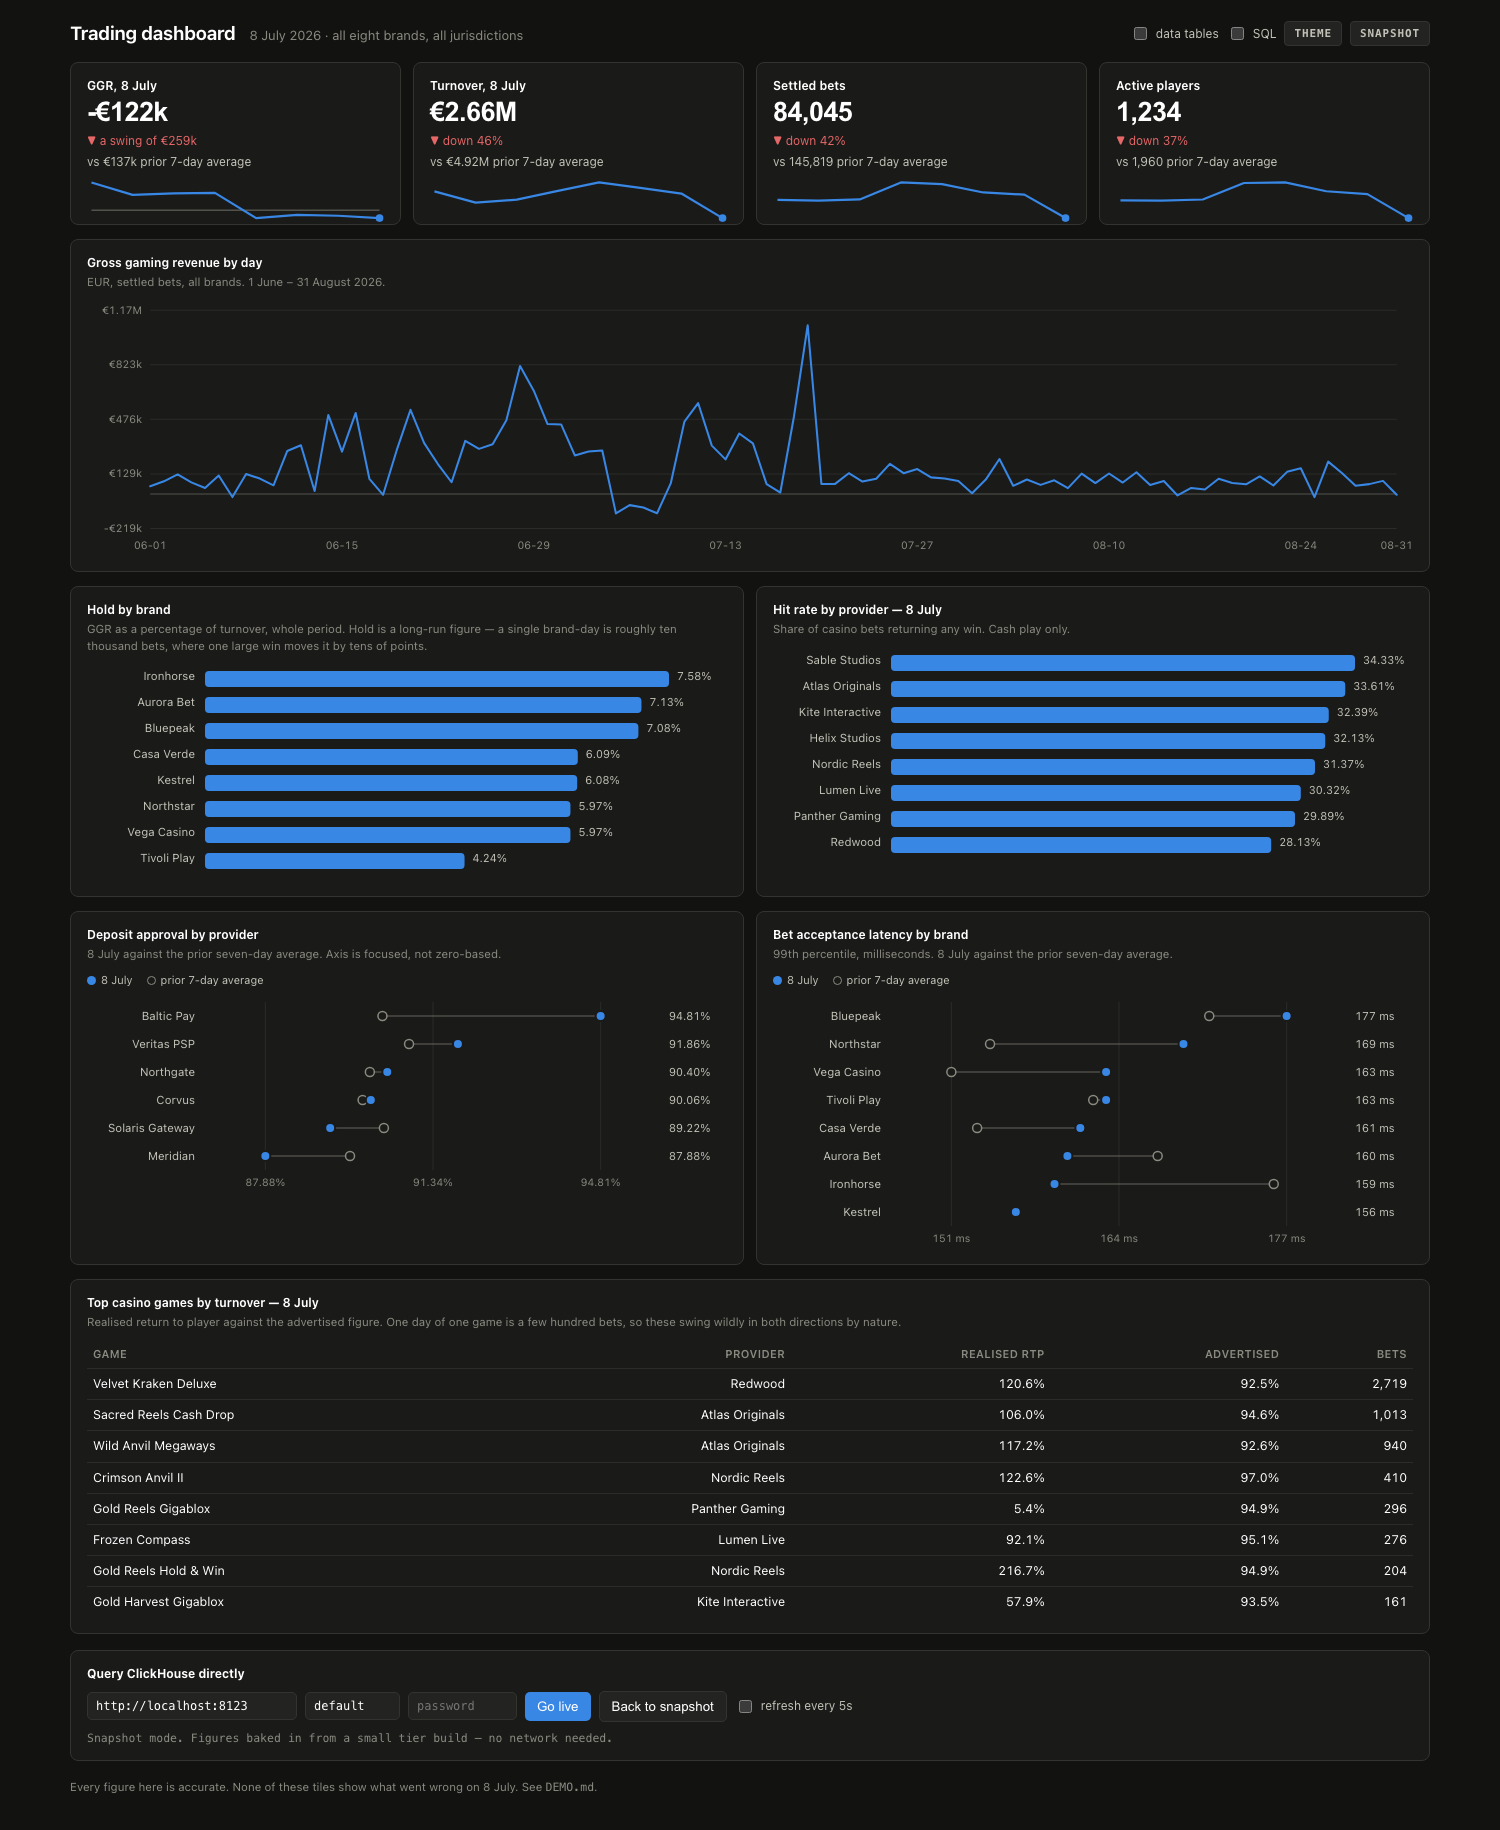
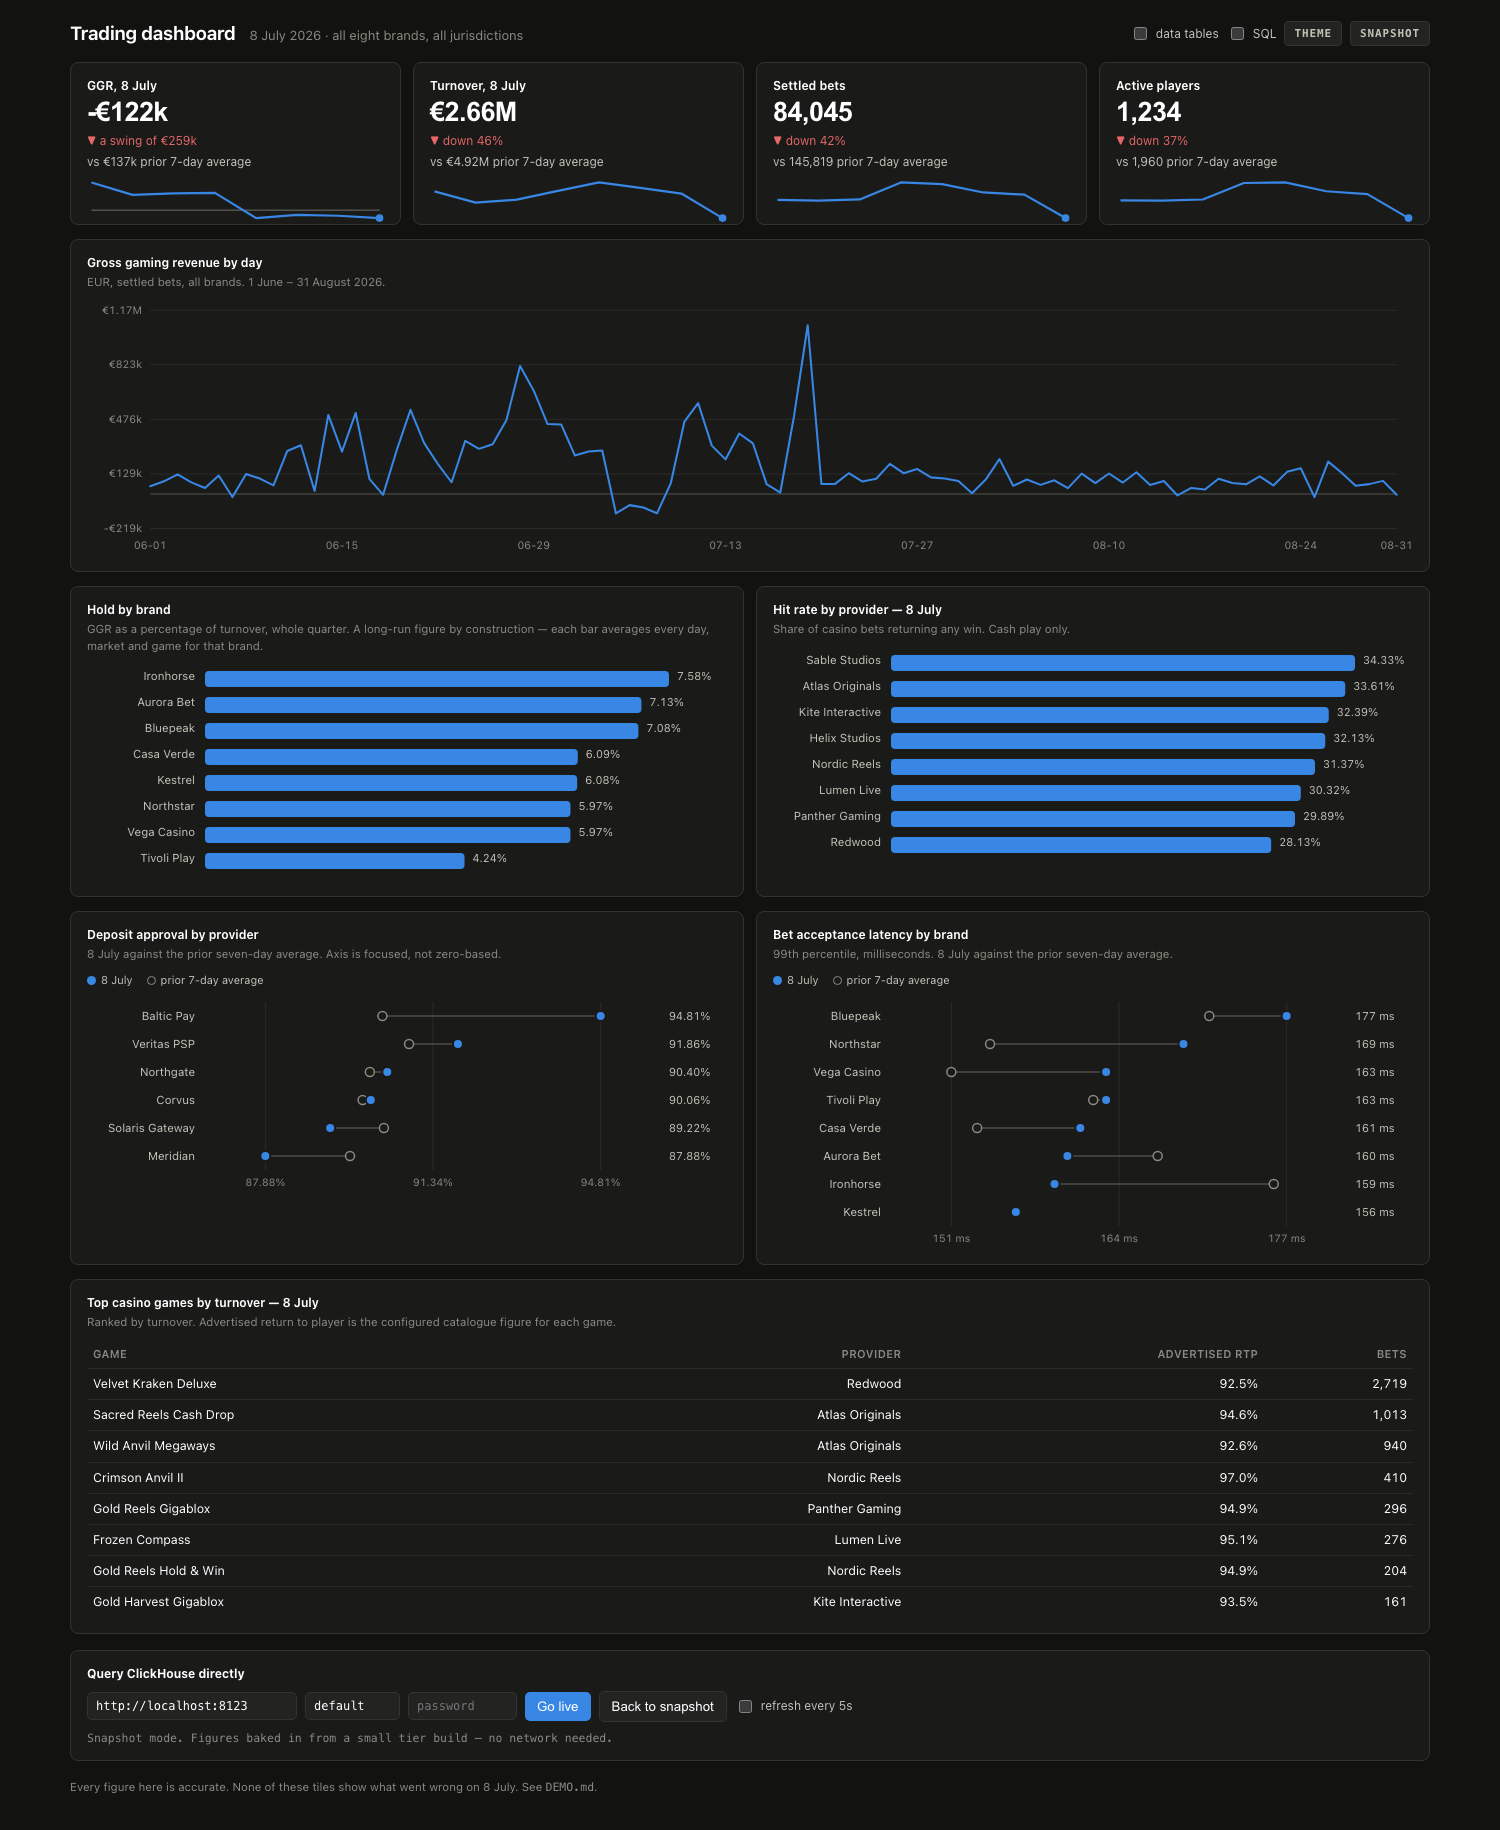
Fix four dashboard problems found by reviewing it at 10B
Reviewing the whole dashboard against the ten-billion-row build turned up
four things wrong. Three were only visible at that tier.

1. The top-games tile gave the answer away. It carried a realised RTP
   column beside the advertised figure. At the small tier that column
   ranged 5.4% to 216.7% and the culprit's 120.6% was unremarkable noise.
   At 10B the noise is gone: every non-Redwood row sits within about a
   point of advertised, and the only two rows above 100% are both
   Redwood. The tile is now GAME / PROVIDER / ADVERTISED RTP / BETS,
   still ranked by turnover. Retargeted rather than deleted, because five
   tiles with a hole reads as something removed.

   Same noise collapse that stopped beat 3 failing, and the same cause:
   about 75,500 cash bets per game-day against about 76.

2. Active players was arithmetically wrong in LIVE mode. The baseline was
   a seven-day distinct count divided by seven, which counts a returning
   player once and understates the daily average. The symptom was the KPI
   reading up 42% while turnover and bets were both down 46% -- on the
   one tile the eye goes to, because it disagreed with the other three.
   Now a scalar subquery averaging the daily counts.

   Fixed in the SQL rather than the JS because the tile has a SQL toggle,
   and hiding the fix would have left the wrong arithmetic on display.
   The snapshot figure was always right, which is why this survived to
   10B unnoticed.
[…]

diff --git a/dashboard/index.html b/dashboard/index.html
@@ -208,9 +208,9 @@
   <div class="grid halves">
     <div class="card">
       <h2>Hold by brand</h2>
-      <p class="note">GGR as a percentage of turnover, whole period. Hold is a
-        long-run figure &mdash; a single brand-day is roughly ten thousand bets, where
-        one large win moves it by tens of points.</p>
+      <p class="note">GGR as a percentage of turnover, whole quarter. A long-run
+        figure by construction &mdash; each bar averages every day, market and game
+        for that brand.</p>
       <div id="holdChart"></div>
       <div class="tableview scroll" id="holdTable"></div>
       <div class="sqlview" data-q="hold"></div>
@@ -244,8 +244,8 @@
   <div class="grid">
     <div class="card">
       <h2>Top casino games by turnover &mdash; 8 July</h2>
-      <p class="note">Realised return to player against the advertised figure. One day of
-        one game is a few hundred bets, so these swing wildly in both directions by nature.</p>
+      <p class="note">Ranked by turnover. Advertised return to player is the configured
+        catalogue figure for each game.</p>
       <div class="scroll"><table id="gamesTable"></table></div>
       <div class="sqlview" data-q="games"></div>
     </div>
@@ -319,14 +319,15 @@ const SNAP = {
   lat: [["Bluepeak",177,171],["Northstar",169,154],["Vega Casino",163,151],
         ["Tivoli Play",163,162],["Casa Verde",161,153],["Aurora Bet",160,167],
         ["Ironhorse",159,176],["Kestrel",156,156]],
-  games: [["Velvet Kraken Deluxe","Redwood",120.6,92.5,2719],
-          ["Sacred Reels Cash Drop","Atlas Originals",106.0,94.6,1013],
-          ["Wild Anvil Megaways","Atlas Originals",117.2,92.6,940],
-          ["Crimson Anvil II","Nordic Reels",122.6,97.0,410],
-          ["Gold Reels Gigablox","Panther Gaming",5.4,94.9,296],
-          ["Frozen Compass","Lumen Live",92.1,95.1,276],
-          ["Gold Reels Hold & Win","Nordic Reels",216.7,94.9,204],
-          ["Gold Harvest Gigablox","Kite Interactive",57.9,93.5,161]]
+  /* [game, provider, advertised RTP, bets] */
+  games: [["Velvet Kraken Deluxe","Redwood",92.5,2719],
+          ["Sacred Reels Cash Drop","Atlas Originals",94.6,1013],
+          ["Wild Anvil Megaways","Atlas Originals",92.6,940],
+          ["Crimson Anvil II","Nordic Reels",97.0,410],
+          ["Gold Reels Gigablox","Panther Gaming",94.9,296],
+          ["Frozen Compass","Lumen Live",95.1,276],
+          ["Gold Reels Hold & Win","Nordic Reels",94.9,204],
+          ["Gold Harvest Gigablox","Kite Interactive",93.5,161]]
 };
 
 /* ============================================================ */
@@ -571,11 +572,11 @@ function renderDumbbell(mount, rows, fmt, label, unit) {
 
 function renderGames(rows) {
   $("#gamesTable").innerHTML =
-    "<thead><tr><th>Game</th><th>Provider</th><th class='num'>Realised RTP</th>" +
-    "<th class='num'>Advertised</th><th class='num'>Bets</th></tr></thead><tbody>" +
+    "<thead><tr><th>Game</th><th>Provider</th>" +
+    "<th class='num'>Advertised RTP</th><th class='num'>Bets</th></tr></thead><tbody>" +
     rows.map((r) => "<tr><td>" + r[0] + "</td><td>" + r[1] + "</td>" +
-      '<td class="num">' + r[2].toFixed(1) + "%</td><td class=\"num\">" +
-      r[3].toFixed(1) + '%</td><td class="num">' + num(r[4]) + "</td></tr>").join("") +
+      '<td class="num">' + r[2].toFixed(1) + '%</td><td class="num">' +
+      num(r[3]) + "</td></tr>").join("") +
     "</tbody>";
 }
 
@@ -617,7 +618,13 @@ const Q = {
       round(sumIf(ggr_eur, toDate(ts)>=${W0} AND toDate(ts)<${D0})/7),
       round(sumIf(stake_eur, toDate(ts)>=${W0} AND toDate(ts)<${D0})/7),
       round(countIf(toDate(ts)>=${W0} AND toDate(ts)<${D0})/7),
-      round(uniqIf(player_id, toDate(ts)>=${W0} AND toDate(ts)<${D0})/7)
+      /* uniq is not additive. A seven-day distinct count divided by seven
+         counts a returning player once and understates the daily average,
+         so the baseline needs its own shape of query. */
+      (SELECT round(avg(u)) FROM (
+        SELECT uniq(player_id) AS u FROM igaming.bets
+        WHERE status='settled' AND toDate(ts)>=${W0} AND toDate(ts)<${D0}
+        GROUP BY toDate(ts)))
     FROM igaming.bets WHERE status='settled'
       AND toDate(ts)>=${W0} AND toDate(ts)<=${D0}`,
   week: `SELECT toString(toDate(ts)), round(sum(ggr_eur)), round(sum(stake_eur)),
@@ -645,7 +652,6 @@ const Q = {
     FROM igaming.bets WHERE toDate(ts)>=${W0} AND toDate(ts)<=${D0}
     GROUP BY brand_name ORDER BY d DESC`,
   games: `SELECT game_name, provider_id,
-      round(100*sum(payout_eur)/sum(stake_eur),1),
       round(100*sum(stake_eur*theoretical_rtp)/sum(stake_eur),1), count()
     FROM igaming.bets WHERE vertical='casino' AND status='settled' AND toDate(ts)=${D0}
     GROUP BY game_name, provider_id HAVING count()>150
@@ -681,7 +687,7 @@ async function goLive() {
              ggr7: r[4], turnover7: r[5], bets7: r[6], players7: r[7] },
       week: N(out[1]), ggrByDay: N(out[2]), hold: N(out[3]), hit: N(out[4]),
       psp: N(out[5]), lat: N(out[6]),
-      games: out[7].map((x) => [x[0], x[1], Number(x[2]), Number(x[3]), Number(x[4])]),
+      games: out[7].map((x) => [x[0], x[1], Number(x[2]), Number(x[3])]),
     });
     const chip = $("#modeChip");
     chip.textContent = "LIVE"; chip.dataset.live = "1";
